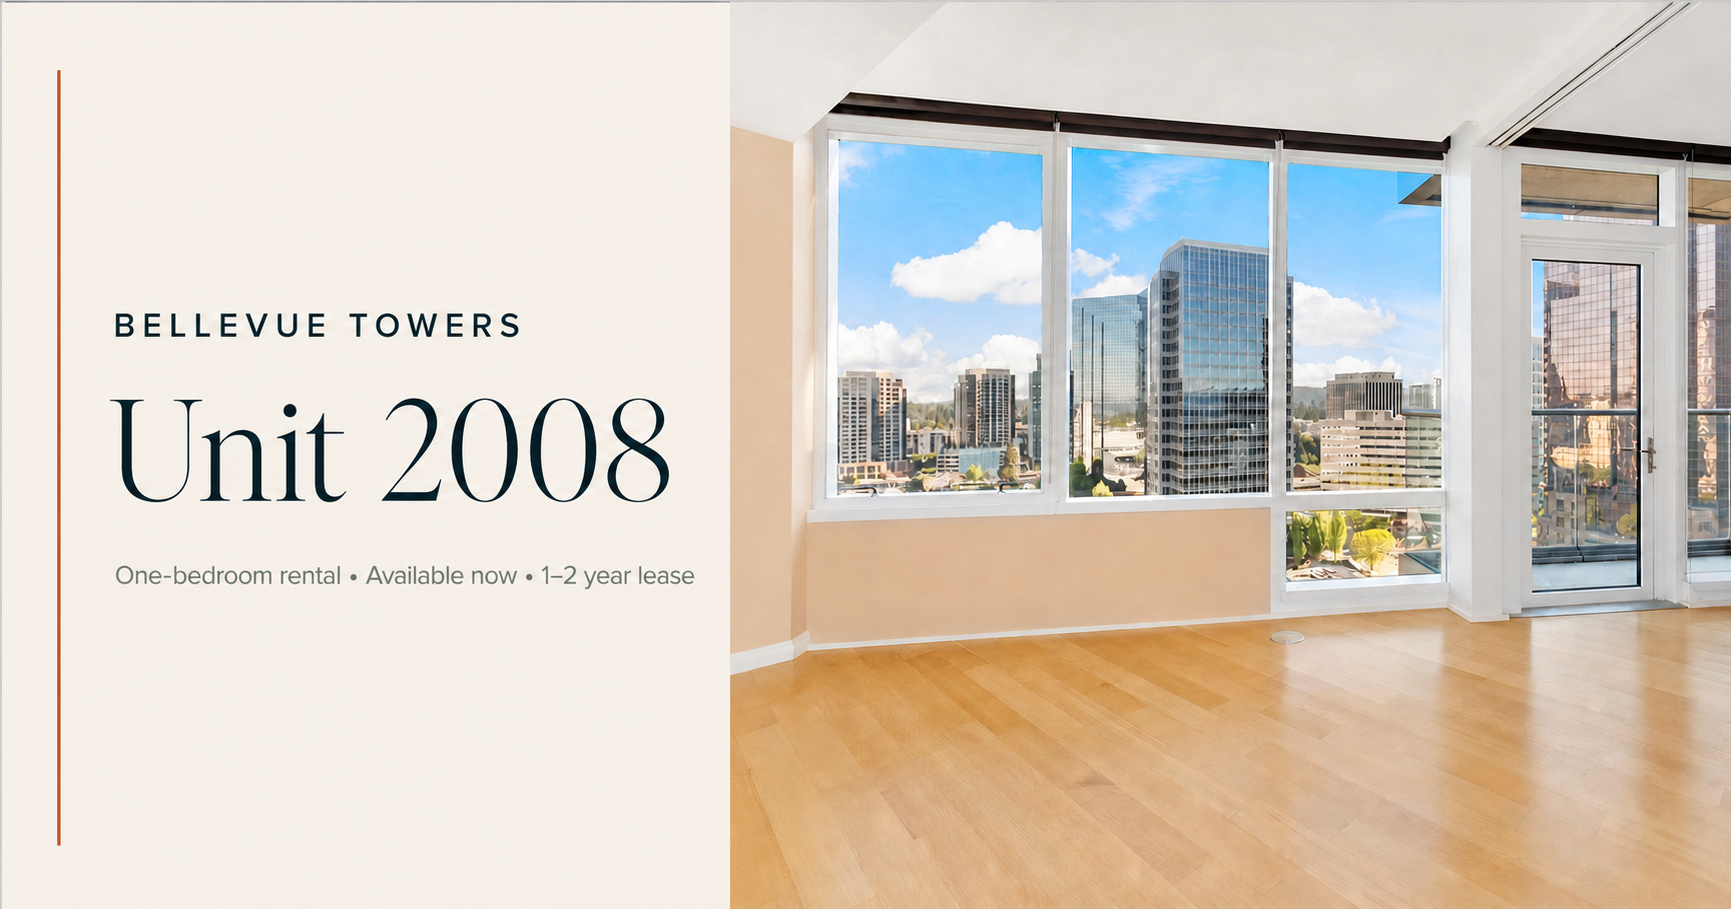
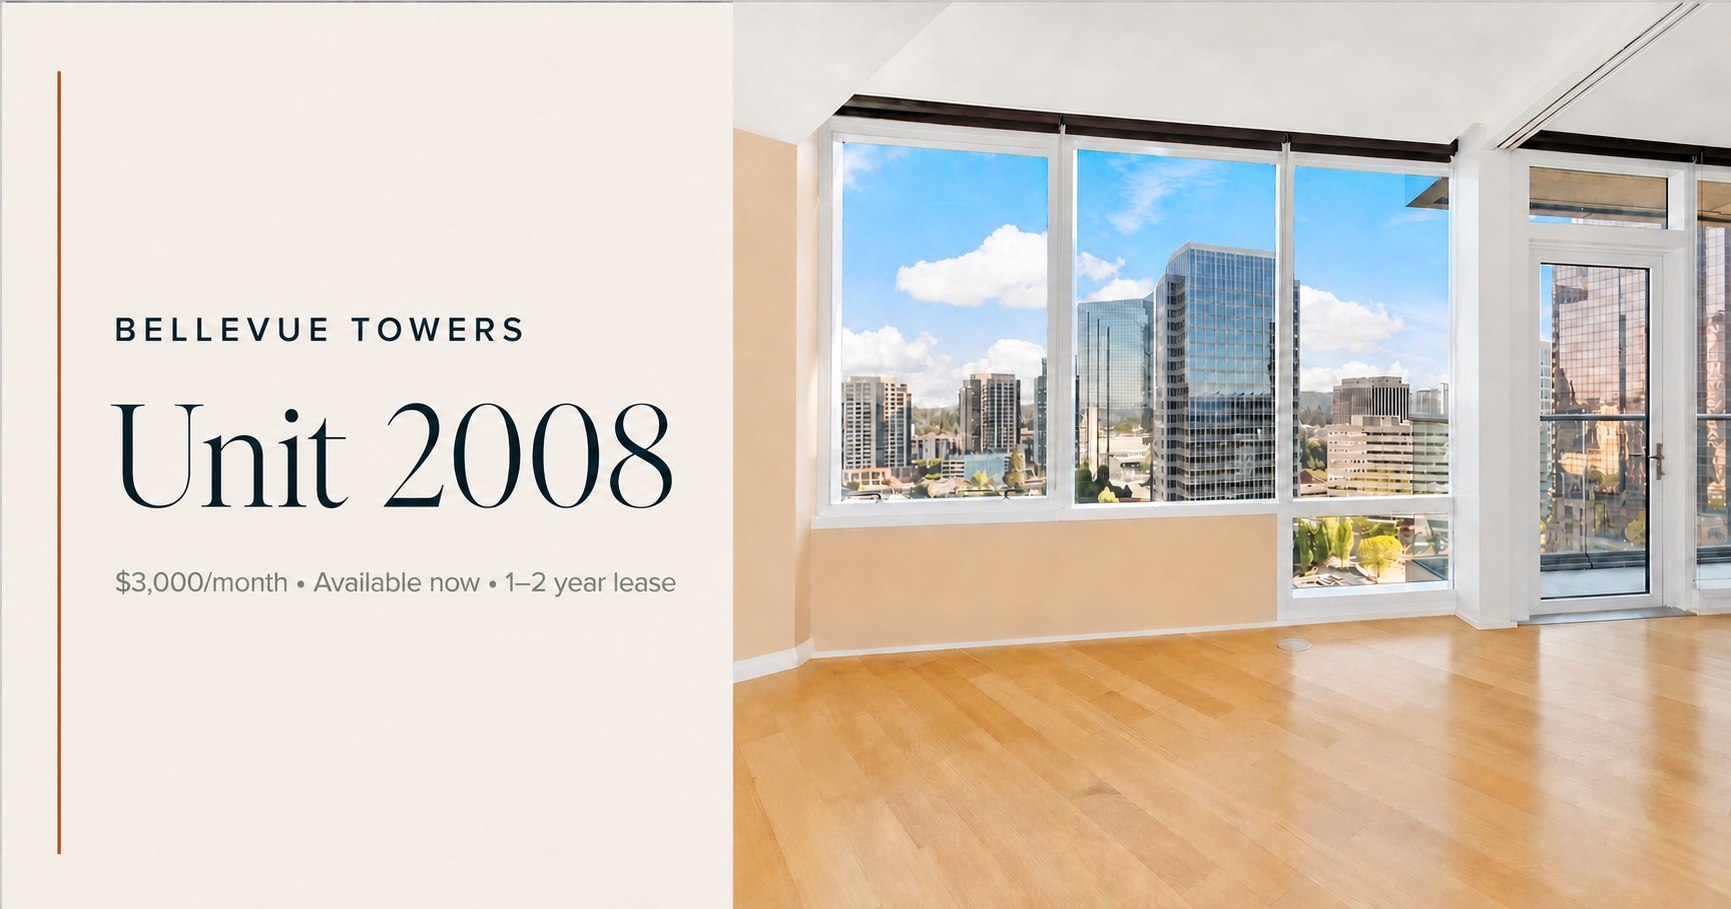
Add rent and utility details

diff --git a/index.html b/index.html
@@ -7,14 +7,14 @@
     <meta name="robots" content="index, follow, max-image-preview:large" />
     <meta
       name="description"
-      content="Bellevue Towers Unit 2008 is an available-now, 810-square-foot one-bedroom rental with skyline views, a private balcony, secure parking, and flexible one- to two-year lease terms."
+      content="Bellevue Towers Unit 2008 is an available-now, 810-square-foot one-bedroom rental for $3,000/month with skyline views, a private balcony, secure parking, and water included."
     />
     <link rel="canonical" href="https://wlrd.github.io/apt-listing/" />
     <link rel="preload" as="image" href="images/unit-10.jpg" />
     <meta property="og:title" content="Bellevue Towers Unit 2008 for Rent" />
     <meta
       property="og:description"
-      content="Available now: a 20th-floor downtown Bellevue one-bedroom with skyline views, a private balcony, secure parking, and full-service amenities."
+      content="$3,000/month and available now: a 20th-floor downtown Bellevue one-bedroom with skyline views, a private balcony, secure parking, and water included."
     />
     <meta property="og:type" content="website" />
     <meta property="og:url" content="https://wlrd.github.io/apt-listing/" />
@@ -25,7 +25,7 @@
     <meta name="twitter:title" content="Bellevue Towers Unit 2008 for Rent" />
     <meta
       name="twitter:description"
-      content="Available now · Downtown Bellevue · One bedroom · Secure parking · Flexible 1–2 year lease"
+      content="$3,000/month · Available now · One bedroom · Secure parking · Water included"
     />
     <meta name="twitter:image" content="https://wlrd.github.io/apt-listing/images/og.png" />
     <title>Bellevue Towers Unit 2008 for Rent | Downtown Bellevue</title>
@@ -37,7 +37,7 @@
         "@type": "Apartment",
         "@id": "https://wlrd.github.io/apt-listing/#apartment",
         "name": "Bellevue Towers Unit 2008",
-        "description": "An available-now, 810-square-foot one-bedroom rental on the 20th floor of Bellevue Towers with skyline views, a private balcony, secure parking, and resident amenities.",
+        "description": "An available-now, 810-square-foot one-bedroom rental on the 20th floor of Bellevue Towers for $3,000 per month with skyline views, a private balcony, secure parking, water included, and resident amenities.",
         "url": "https://wlrd.github.io/apt-listing/",
         "image": "https://wlrd.github.io/apt-listing/images/unit-10.jpg",
         "address": {
@@ -56,18 +56,28 @@
         "numberOfBedrooms": 1,
         "numberOfBathroomsTotal": 1,
         "floorLevel": "20",
+        "petsAllowed": true,
         "amenityFeature": [
           { "@type": "LocationFeatureSpecification", "name": "Private balcony", "value": true },
           { "@type": "LocationFeatureSpecification", "name": "Secure parking", "value": true },
           { "@type": "LocationFeatureSpecification", "name": "In-unit laundry", "value": true },
           { "@type": "LocationFeatureSpecification", "name": "Central air conditioning", "value": true },
-          { "@type": "LocationFeatureSpecification", "name": "24-hour concierge", "value": true }
+          { "@type": "LocationFeatureSpecification", "name": "24-hour concierge", "value": true },
+          { "@type": "LocationFeatureSpecification", "name": "Water included", "value": true }
         ],
         "makesOffer": {
           "@type": "Offer",
           "availability": "https://schema.org/InStock",
+          "price": 3000,
+          "priceCurrency": "USD",
+          "priceSpecification": {
+            "@type": "UnitPriceSpecification",
+            "price": 3000,
+            "priceCurrency": "USD",
+            "unitText": "MONTH"
+          },
           "url": "https://wlrd.github.io/apt-listing/#inquire",
-          "description": "Available now with flexible one- to two-year lease terms."
+          "description": "Available now for $3,000 per month with flexible one- to two-year lease terms. Water and one secure parking space are included. Pets are allowed with an additional fee; electricity and internet are not included."
         }
       }
     </script>
@@ -107,7 +117,7 @@
             <div><dt>Bedroom</dt><dd>1</dd></div>
             <div><dt>Bathroom</dt><dd>1</dd></div>
             <div><dt>Interior</dt><dd>810 <span>sq ft</span></dd></div>
-            <div><dt>Parking</dt><dd>1 <span>secure space</span></dd></div>
+            <div><dt>Rent</dt><dd>$3,000 <span>/ month</span></dd></div>
           </dl>
         </div>
 
@@ -133,8 +143,9 @@
 
       <section class="availability-bar" aria-label="Rental availability">
         <p><span class="status-dot" aria-hidden="true"></span> Available now</p>
+        <p>$3,000 / month</p>
+        <p>Secure parking included</p>
         <p>Flexible 1–2 year lease</p>
-        <p>Direct owner inquiry</p>
       </section>
 
       <section class="intro section-pad" id="home" aria-labelledby="intro-title">
@@ -337,10 +348,12 @@
             <p class="amenity-label">Rental snapshot</p>
             <ul>
               <li>Available for immediate move-in</li>
+              <li>$3,000 monthly rent</li>
               <li>Flexible one- to two-year lease</li>
               <li>One secure parking space</li>
-              <li>Rent shared on inquiry</li>
-              <li>Private tours by appointment</li>
+              <li>Water included</li>
+              <li>Electricity &amp; internet not included</li>
+              <li>Pets allowed with an additional fee</li>
               <li>No separate storage unit</li>
             </ul>
           </article>
@@ -456,8 +469,10 @@
               <p><strong>Year lease</strong><br />Available for immediate move-in</p>
             </div>
             <ul class="inquiry-benefits" aria-label="Rental inquiry highlights">
+              <li>$3,000 monthly rent with water included</li>
               <li>One secure parking space included</li>
-              <li>Private tours by appointment</li>
+              <li>Pets allowed with an additional fee</li>
+              <li>Electricity and internet paid by tenant</li>
               <li>Direct communication with the owner</li>
             </ul>
           </div>
@@ -519,7 +534,7 @@
         <span class="wordmark-copy">Bellevue Towers</span>
       </a>
       <p>
-        One-bedroom rental · Downtown Bellevue · Available now · Flexible 1–2 year lease
+        One-bedroom rental · Downtown Bellevue · $3,000/month · Available now
       </p>
       <p class="footer-small">
         Details are believed reliable but should be independently verified. Final terms are

diff --git a/script.js b/script.js
@@ -89,7 +89,7 @@ inquiryForm?.addEventListener("submit", (event) => {
     "",
     message,
     "",
-    "Please let me know about rent and possible viewing times.",
+    "Please let me know about possible viewing times and next steps.",
   ].join("\n");
 
   window.location.href = `mailto:${ownerEmail}?subject=${encodeURIComponent(subject)}&body=${encodeURIComponent(body)}`;

diff --git a/README.md b/README.md
@@ -4,13 +4,13 @@ This folder is a complete, dependency-free website for GitHub Pages. It includes
 
 Live site: <https://wlrd.github.io/apt-listing/>
 
-The rental is available for immediate move-in with flexible one- to two-year lease terms. It includes one secure parking space. A separate storage unit is not included or advertised.
+The rental is available for immediate move-in at $3,000 per month with flexible one- to two-year lease terms. Water and one secure parking space are included. Electricity and internet are not included. Pets are allowed for an additional fee. A separate storage unit is not included or advertised.
 
 ## Contact privacy and availability
 
 The destination address is stored as an encoded numeric token in `script.js` and reconstructed in the visitor's browser only when the inquiry form is submitted. This deters basic source and mail-link scrapers, though no address used by a static website can be completely secret from a determined scraper.
 
-The page says the home is available for immediate move-in, offers flexible one- to two-year lease terms, and shares rent on inquiry.
+The page says the home is available for immediate move-in at $3,000 per month with flexible one- to two-year lease terms, and clearly explains the pet and utility policies.
 
 ## Publish with GitHub Pages
 